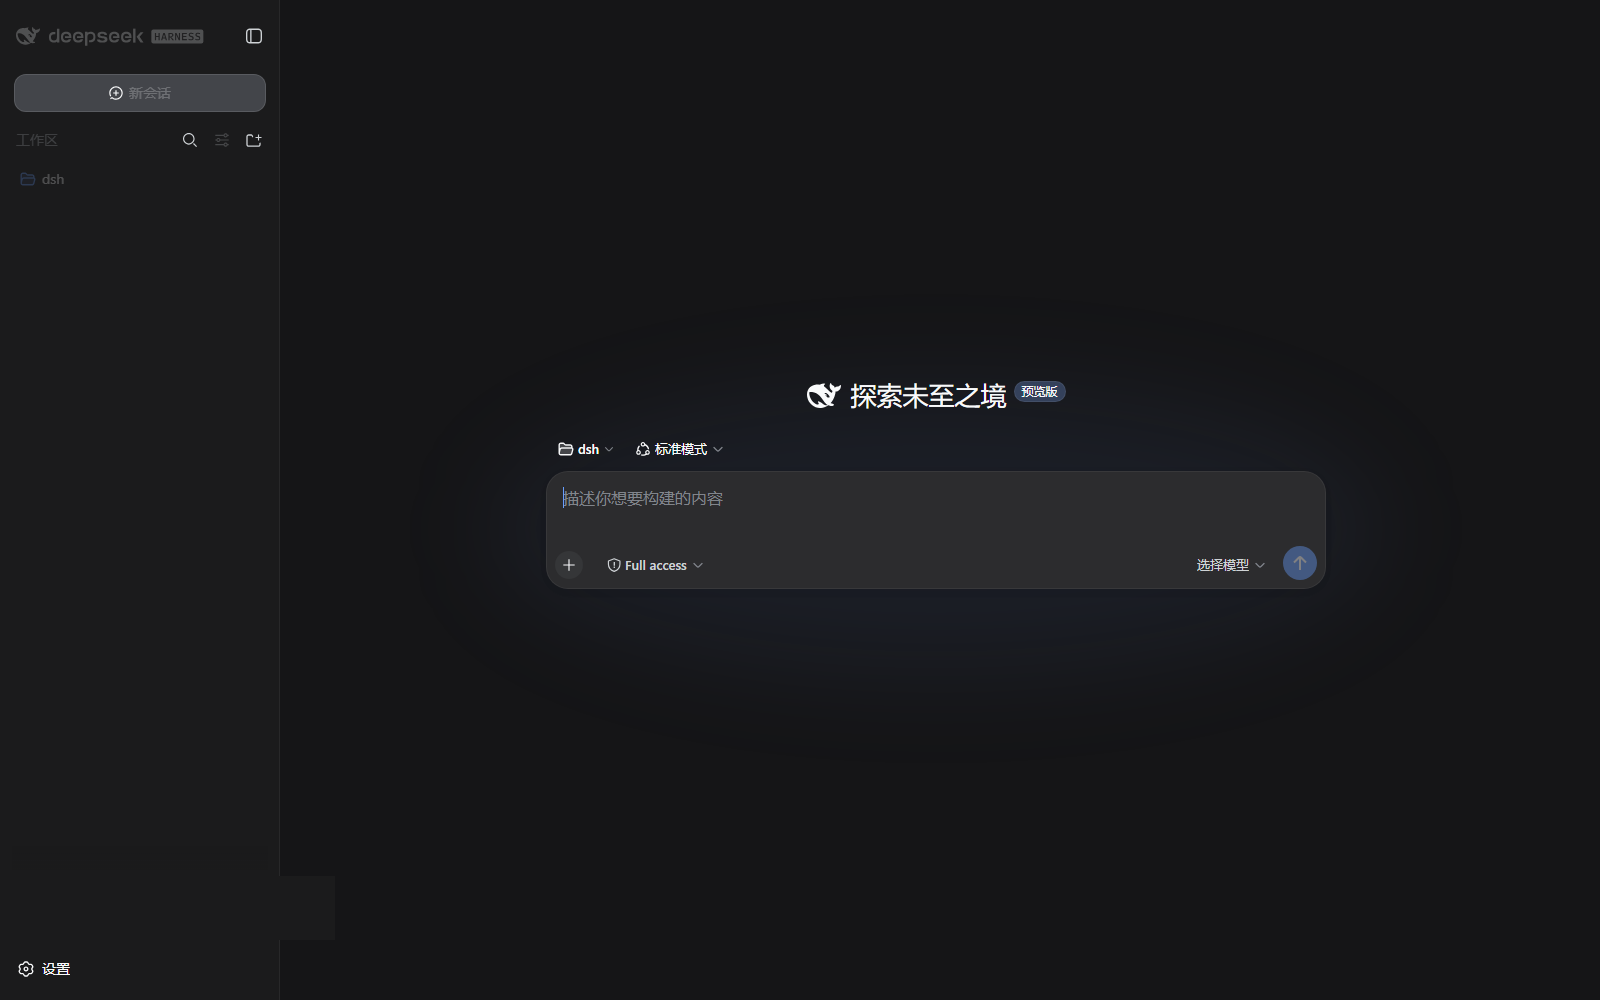
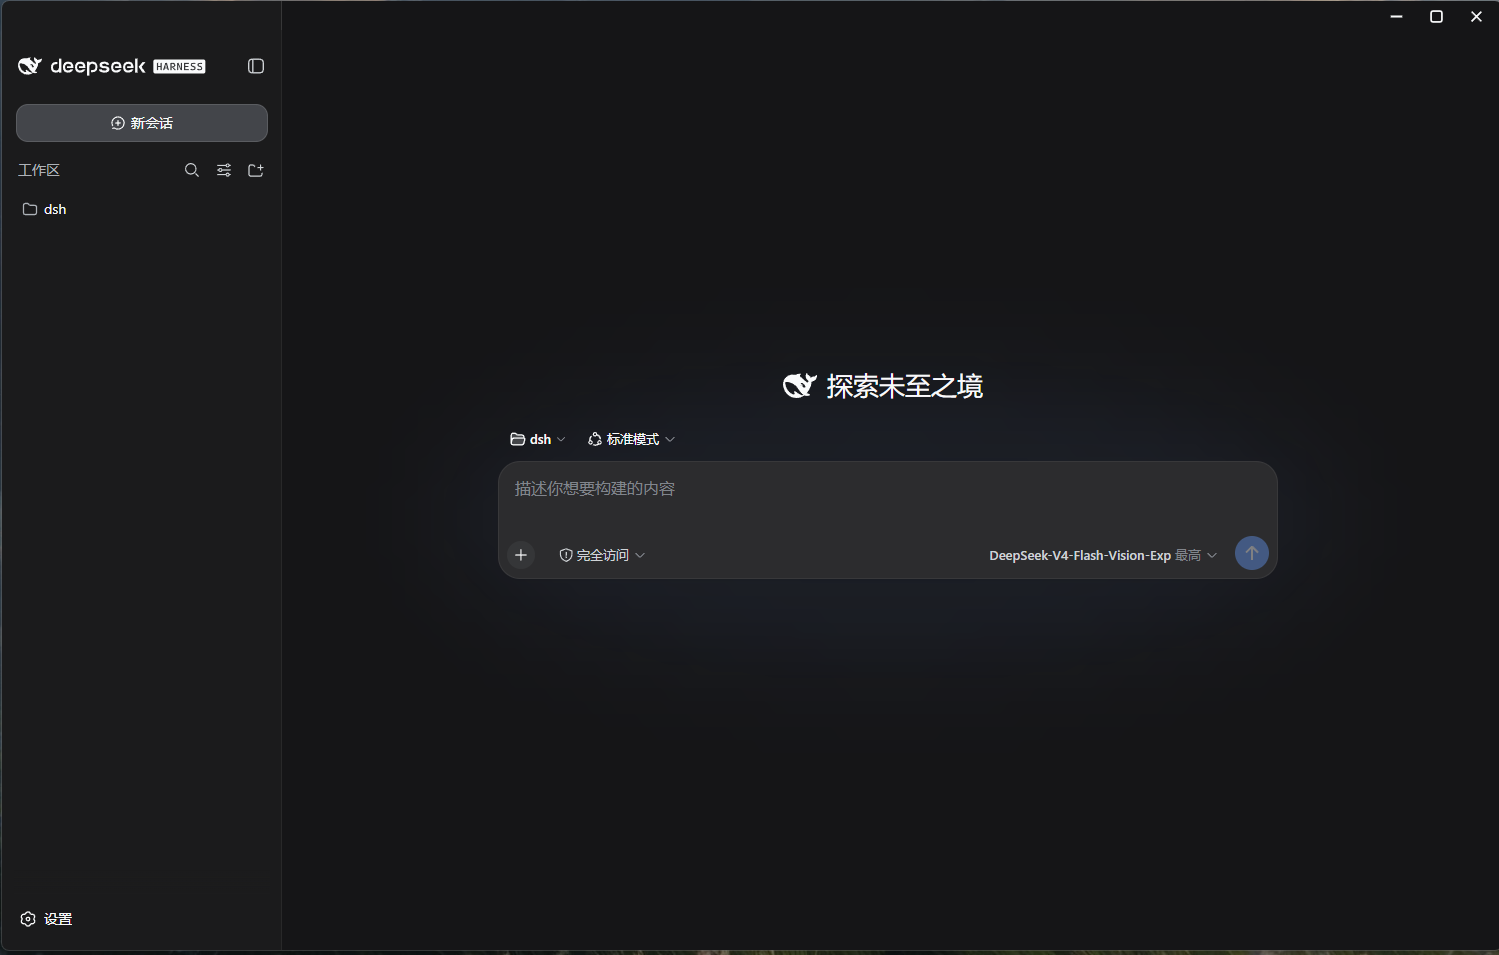
docs: replace UI preview with app screenshots (session, access modes, agent level, settings)

diff --git a/README.md b/README.md
@@ -10,9 +10,15 @@ DeepSeek Harness 的核心哲学是「一切皆插件」：模型、工具、Age
 
 ## 界面预览
 
-![新会话页面 - DeepSeek Harness 桌面端](docs/screenshot-new-session.png)
+| 新会话页面 | 访问权限选择 |
+| --- | --- |
+| ![新会话页面](docs/screenshot-new-session.png) | ![访问权限选择（只读 / 工作区写入 / 完全访问）](docs/screenshot-access-modes.png) |
 
-*新会话页面：左侧工作区与设置，中间为「探索未至之境」输入区，支持标准模式 / 选择模型 / 全量访问权限切换。*
+| Agent 档位（关闭 / 低 / 高 / 最高） | 桌面端设置 |
+| --- | --- |
+| ![Agent 档位菜单](docs/screenshot-reasoning-levels.png) | ![设置 - 通用设置 / 模型 / 插件 / Agent 预设、外观主题](docs/screenshot-settings.png) |
+
+*新会话页面：左侧工作区与设置，中间为「探索未至之境」输入区，支持标准模式档位、访问权限与模型选择；设置页提供开机自启、托盘、Agent 预设、语言与外观主题等桌面端配置。*
 
 ## 功能亮点
 
